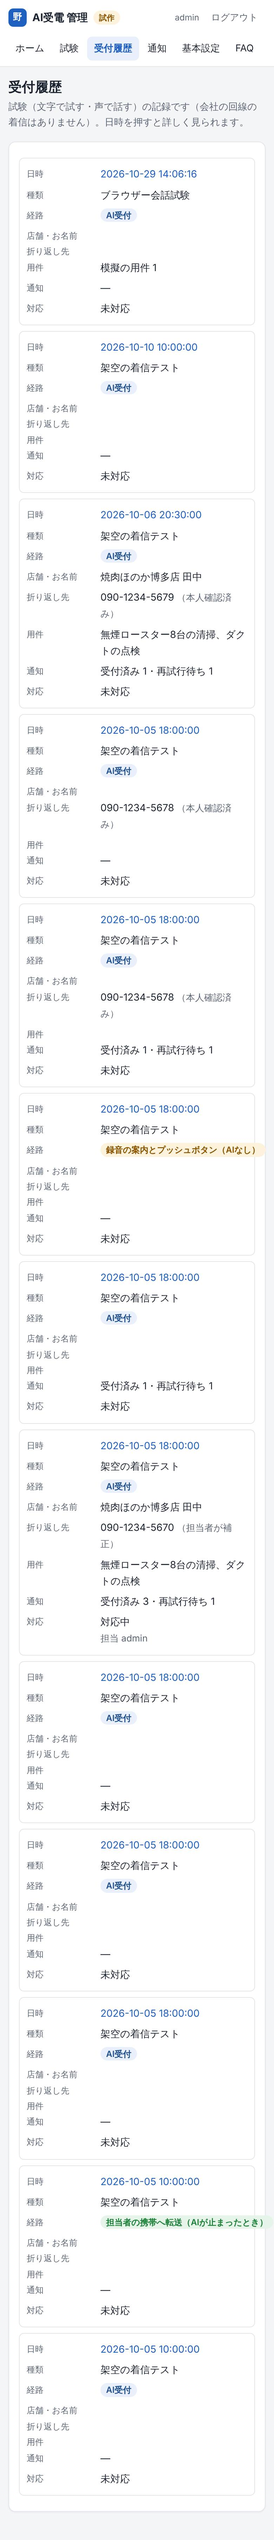
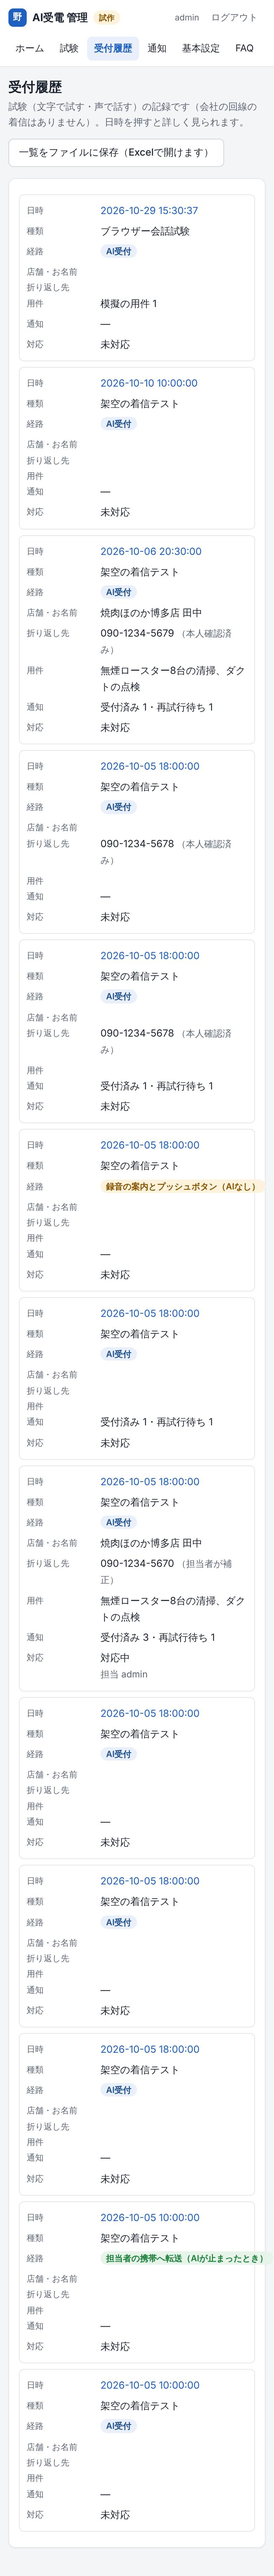
C2〜C7 の試験の反映と、受付一覧のファイル保存（2026-10-29）
- 確認済みの日時に、AIが別の時刻で確認を頼むと断っていた（同じ日時を3回復唱）→ 確認済みのまま受ける
- 確認の結果でも、次に伺う文を渡す（「次は、お名前です。」の作文をなくす）
- 「さようでございますか」「承っております」を使わない言葉に。承っ→うけたまわっ
- 締めの言葉：「担当の者に申し伝え、折り返しお電話いたします。」（担当の者を重ねない）
- 質問だけの通話は、まとめで用件を聞き直さずに最後のあいさつで終える
- 「点検」には「何基」を伺わない（清掃や対象の名前があるときだけ）
- 受付履歴に「一覧をファイルに保存（Excelで開けます）」（CSV、BOM付き）

Claude-Session: https://claude.ai/code/session_018pFjPLuP3S5SkWoNSMzDKX

diff --git a/prototype/admin/static/app.js b/prototype/admin/static/app.js
@@ -267,7 +267,9 @@ function callsTable(calls) {
 }
 routes.calls = async () => {
   const { calls } = await api("/api/calls");
-  view.innerHTML = `${head("受付履歴", "試験（文字で試す・声で話す）の記録です（会社の回線の着信はありません）。日時を押すと詳しく見られます。")}<section class="card">${callsTable(calls)}</section>`;
+  // 2026-10-29 (user): 「受付一覧に記録のエクスポート機能がほしい」
+  view.innerHTML = `${head("受付履歴", "試験（文字で試す・声で話す）の記録です（会社の回線の着信はありません）。日時を押すと詳しく見られます。",
+    `<a class="button" href="/export/calls.csv" download title="すべての受付を1行ずつ、店舗名・用件・会話などと一緒に保存します">一覧をファイルに保存（Excelで開けます）</a>`)}<section class="card">${callsTable(calls)}</section>`;
 };
 
 function eventText(e) {

diff --git a/prototype/tests/test_feedback_1029.py b/prototype/tests/test_feedback_1029.py
@@ -1,0 +1,105 @@
+"""The Grok tests of 2026-10-29 (C2-C7, records 20261029-150054 … 150925) and the user's notes on them.
+
+「「さようでございますか。」は変」「何度も聞き返された」「担当のものを重複して言っている。「担当のものにもうしつたえ、
+折り返しお電話いたします。」でいいと思う」「C3の会話が変だった」「承って（しょうって）と言ってる」
+「受付一覧に記録のエクスポート機能がほしい」
+"""
+import csv
+import io
+import unittest
+
+from prototype.concierge.prompts import ASK_FOR, CLOSING_WORDS, SPEECH_MANNERS, VOICE_RULES, for_speech
+from prototype.reception.service import ReceptionService
+from prototype.reception.store import Store
+
+
+def call():
+    svc = ReceptionService(Store(":memory:"))
+    return svc, svc.start_call(at="2026-10-29T15:00")["id"]
+
+
+class AskedOnceTest(unittest.TestCase):
+    def test_a_part_of_the_day_confirmed_by_the_reply_is_not_asked_again(self):
+        # 150054: 「午後」 saved as 「2026-11-03 午後」, confirmed by 「はい」; the AI's confirm_field with T14:00 was
+        # refused and it read the date back three times
+        svc, cid = call()
+        svc.tool(cid, "save_fields", {"shop_name": "焼肉ほのか博多店", "caller_name": "田中", "request": "無煙ロースター20基の清掃"})
+        svc.caller_utterance(cid, "来週の火曜日、午後からどうですか？")
+        say = svc.tool(cid, "save_field", {"field": "preferred_datetime", "value": "2026-11-03T14:00"})["read_back_now"]["say"]
+        self.assertEqual(say, "11月3日、火曜日の、午後でございますね。")
+        svc.ai_utterance(cid, say)
+        svc.caller_utterance(cid, "はい。")
+        res = svc.tool(cid, "confirm_field", {"field": "preferred_datetime", "value": "2026-11-03T14:00"})
+        self.assertTrue(res["ok"])
+        self.assertEqual(res["confirmed_value"], "11月3日、火曜日の、午後")
+        self.assertEqual(res["say"], for_speech(ASK_FOR["callback_number"]))   # and on to the next question
+        self.assertEqual(svc.fields(cid)["preferred_datetime"]["status"], "confirmed_by_caller")
+
+    def test_the_next_question_follows_a_confirmation_only_when_nothing_waits(self):
+        svc, cid = call()
+        svc.tool(cid, "save_fields", {"request": "無煙ロースター3基の清掃", "preferred_datetime": "2026-11-03T15:00",
+                                      "callback_number": "08056442050"})
+        svc.caller_utterance(cid, "はい")
+        res = svc.tool(cid, "confirm_field", {"field": "preferred_datetime", "value": "2026-11-03T15:00"})
+        self.assertNotIn("say", res)   # the number is still to be read back first
+
+
+class WordsTest(unittest.TestCase):
+    def test_no_sayou_and_no_uketamawatte(self):
+        self.assertNotIn("「さようでございますか」から", SPEECH_MANNERS)
+        self.assertNotIn("「さようでございますか」から", VOICE_RULES)
+        self.assertIn("「さようでございますか」", VOICE_RULES)   # in the words not to use
+        self.assertEqual(for_speech("承っております"), "うけたまわっております")
+
+    def test_the_closing_names_the_staff_once(self):
+        self.assertEqual(CLOSING_WORDS.count("担当の者"), 1)
+        self.assertIn("担当の者に申し伝え、折り返しお電話いたします。", CLOSING_WORDS)
+
+
+class C3Test(unittest.TestCase):
+    def test_a_call_with_only_a_question_ends_with_the_goodbye(self):
+        # 150734: 「点検は無料ですか」 answered, 「以上です」, then 「どのようなご用件でしょうか」 again
+        svc, cid = call()
+        svc.caller_utterance(cid, "点検は無料ですか？")
+        svc.tool(cid, "lookup_faq", {"question": "点検は無料ですか？"})
+        res = svc.tool(cid, "request_summary", {})
+        self.assertTrue(res["nothing_to_take"])
+        self.assertNotIn("say", res)
+        self.assertIn("end_call", res["then"])
+
+    def test_an_inspection_at_a_yakiniku_shop_is_not_asked_how_many(self):
+        # 150925: 「点検」 at 「焼肉ほのか」 got 「清掃の対象は、何基ございますか」
+        svc, cid = call()
+        res = svc.tool(cid, "save_fields", {"shop_name": "焼肉ほのか博多店", "request": "点検"})
+        self.assertEqual(res["say"], for_speech(ASK_FOR["preferred_datetime"]))
+        res = svc.tool(cid, "save_field", {"field": "request", "value": "無煙ロースターの清掃"})
+        self.assertEqual(res["say"], for_speech(ASK_FOR["request_count"]))   # a cleaning still is
+
+
+class ExportTest(unittest.TestCase):
+    def test_one_row_per_call_for_excel(self):
+        svc, cid = call()
+        svc.caller_utterance(cid, "=HYPERLINK(\"x\") 焼肉ほのか博多店の田中です")
+        svc.tool(cid, "save_fields", {"shop_name": "焼肉ほのか博多店", "caller_name": "田中", "request": "無煙ロースター3基の清掃"})
+        svc.end_call(cid)
+        text = svc.export_calls_csv()
+        self.assertTrue(text.startswith("受付ID,着信日時"))   # Excel reads UTF-8 with the BOM
+        self.assertIn("\r\n", text)
+        rows = list(csv.reader(io.StringIO(text[1:])))
+        head, row = rows[0], rows[1]
+        got = dict(zip(head, row))
+        self.assertEqual((got["受付ID"], got["店舗名"], got["お名前の確認"], got["用件"]),
+                         (cid, "焼肉ほのか博多店", "聞き取りのみ・未確認", "無煙ロースター3基の清掃"))
+        self.assertEqual(got["折り返し先の確認"], "未取得")
+        self.assertTrue(got["会話"].startswith("お客様：=HYPERLINK"))   # the formula is inside the cell, not at its start
+        self.assertEqual(got["着信日時"], "2026-10-29 15:00:00")
+
+    def test_a_cell_that_looks_like_a_formula_is_text(self):
+        svc, cid = call()
+        svc.tool(cid, "save_field", {"field": "shop_name", "value": "=1+1"})
+        got = dict(zip(*list(csv.reader(io.StringIO(svc.export_calls_csv()[1:])))[:2]))
+        self.assertEqual(got["店舗名"], "'=1+1")
+
+
+if __name__ == "__main__":
+    unittest.main()

diff --git a/prototype/engines/tools.py b/prototype/engines/tools.py
@@ -182,9 +182,15 @@ class ToolHandler:
                 result = {"ok": True, **{k: v for k, v in self.start_readback(field, t_ms).items() if k != "field"}}
         elif name == "confirm_field":
             state = self.store.get(field)
-            if (state.status == Status.CONFIRMED and state.value is not None
-                    and self._normalize(field, args.get("value", "")) == state.value):
+            if state.status == Status.CONFIRMED and state.value is not None:
+                # 2026-10-29 (Grok): the caller said 「午後」, the date was saved as 「2026-11-03 午後」 and confirmed by the
+                # 「はい」, but the AI sent confirm_field with its own 「2026-11-03T14:00」. That was refused as 「this reply was
+                # already used」, and the AI read the date back three times. What was read back and confirmed stands.
                 result = {"ok": True, "reason": "already confirmed by the server from the read-back and the reply"}
+                if self._normalize(field, args.get("value", "")) != state.value:
+                    result["confirmed_value"] = self._reading(field, state.value)
+                    result["note"] = ("この値で確認済みです。お客様が別の値をおっしゃったときだけ、save_field で保存し直します。"
+                                      "伺い直さないでください")
             elif self._utt_seq in self._consumed:
                 result = {"ok": False, "reason": "this reply was already used to confirm another item; ask again"}
             else:

diff --git a/prototype/admin/server.py b/prototype/admin/server.py
@@ -361,6 +361,13 @@ def make_handler(app: AdminApp, allowed_hosts: set[str], log_requests: bool = Tr
             if path == "/favicon.ico":
                 return self._send(204, b"", "image/x-icon")
             user = app.auth.session(self._token())
+            if path == "/export/calls.csv":   # 2026-10-29: the call list for Excel
+                if not user:
+                    return self._redirect("/login")
+                # an ASCII name: Chromium dropped a Japanese one (filename*) and saved the file as 「download」
+                name = "calls-" + app.service.clock().strftime("%Y%m%d-%H%M") + ".csv"
+                return self._send(200, app.service.export_calls_csv().encode("utf-8"), "text/csv; charset=utf-8",
+                                  {"Content-Disposition": f'attachment; filename="{name}"'})
             if path.startswith("/api/"):
                 if not user:
                     return self._json(HTTPStatus.UNAUTHORIZED, {"error": "ログインが必要です"})

diff --git a/prototype/tests/test_short_prompts.py b/prototype/tests/test_short_prompts.py
@@ -57,7 +57,7 @@ class PromptTextTest(unittest.TestCase):
 
     def test_gemini_gets_short_tool_rules_and_the_dates_but_not_the_faq(self):
         text = self.svc.voice_instructions(self.cid, LAB_PERSONA, backend=False)
-        self.assertLess(len(text), 2850)   # 2026-10-22: the fixed questions and more words in kana; 10-26: go on after the name
+        self.assertLess(len(text), 2900)   # 2026-10-22: the fixed questions and more words in kana; 10-26: go on after the name; 10-29: words not to use
         for words in ("0は「ゼロ」と言います", "失礼いたします。」と言い、end_call を呼びます", "必ず lookup_faq を呼び",
                       "read_back_now.say を一字一句そのまま読みます", "まず offer_line_number を呼び",
                       "- 10/16（金）：明後日・今週の金曜", "save_field には、2026-10-16"):

diff --git a/prototype/reception/tooldefs.py b/prototype/reception/tooldefs.py
@@ -20,7 +20,8 @@ RECEPTION_TOOLS = TOOLS + [
         "type": "function",
         "name": "lookup_faq",
         "description": ("料金・条件・対応範囲などを聞かれたときに呼ぶ。返ってきた answer の範囲だけで答える。found が false なら、"
-                        "how のとおり、candidates から同じことを聞いているものの answer を読むか、if_none を読む。"),
+                        "how のとおり、candidates から同じことを聞いているものの answer を読むか、if_none を読む。"
+                        "呼ぶ前に「お調べいたします」などとは言わない（すぐ結果が返る）。"),
         "parameters": {"type": "object", "properties": {"question": {"type": "string"}}, "required": ["question"]},
     },
     {

diff --git a/prototype/tests/test_manners.py b/prototype/tests/test_manners.py
@@ -12,7 +12,7 @@ from prototype.reception.service import ReceptionService
 from prototype.reception.store import Store
 
 # words the instructions tell the AI not to use; the phrases this app writes itself must not use them either
-FORBIDDEN = ("マル", "〇", "もしもし", "少々確認", "確認しましょう", "了解", "なるほど", "よろしかった", "になります",
+FORBIDDEN = ("マル", "〇", "もしもし", "さようでございますか", "承って", "少々確認", "確認しましょう", "了解", "なるほど", "よろしかった", "になります",
              "頂戴", "お声が遠い", "AI受付です", "伺えますか")
 
 

diff --git a/prototype/tests/test_admin_http.py b/prototype/tests/test_admin_http.py
@@ -64,7 +64,8 @@ class AdminHttpTest(unittest.TestCase):
         return status, cookie, json.loads(data)["csrf"]
 
     def test_nothing_without_login(self):
-        for path in ("/api/config", "/api/calls", "/api/faqs", "/api/targets", "/api/audit", "/lab/api/candidates"):
+        for path in ("/api/config", "/api/calls", "/api/faqs", "/api/targets", "/api/audit", "/lab/api/candidates",
+                     "/export/calls.csv"):
             self.assertIn(self.req("GET", path)[0], (401, 302), path)
         status, _, r = self.req("GET", "/")
         self.assertEqual((status, r.getheader("Location")), (302, "/login"))

diff --git a/docs/spec-draft-v1.md b/docs/spec-draft-v1.md
@@ -9,6 +9,7 @@
 
 | 版 | 変更点 |
 | --- | --- |
+| v1（C2〜C7 の試験の反映と、受付一覧の保存、2026-10-29） | Grok Voice 3.0 で C2〜C7 を試験（記録 `20261029-150054`・`150407`・`150734`・`150925`）。利用者の感想：「「さようでございますか。」は変」「何度も聞き返された」「担当のものを重複して言っている。「担当のものにもうしつたえ、折り返しお電話いたします。」でいいと思う」「C3の会話が変だった」「承って（しょうって）と言ってる」。原因と直したこと：①お客様が「午後」とだけ言った日時は「11月3日、火曜日の、午後」で保存・復唱し、「はい」で確認済みになったが、AIが自分で作った「午後2時」で確認を頼み、サーバーが「この返事は別の項目の確認に使った」と誤って断っていた。AIは同じ日時を3回復唱した。確認済みの項目への確認は、値が違っても確認済みのまま受ける（`prototype/engines/tools.py`）。②確認の後、AIが「次は、お名前です。」と作文した → 確認の結果でも、次に伺う文をサーバーが渡す。③「さようでございますか」を相づちの例から外し、使わない言葉にした。AIが作文した「承っております」は使わない言葉に入れ、読み方をかなにした。④締めの言葉を「承りました内容は担当の者に申し伝え、折り返しお電話いたします。ほかにご用件はございますでしょうか。」にした（**利用者の決定**）。⑤C3：質問だけのお客様が「以上です」と言うと、まとめの業務処理が「どのようなご用件でしょうか」を返していた→ 何も伺っていない通話は、最後のあいさつで終える。FAQを調べる前の「料金についてお調べいたします」は言わないようにした。⑥「点検」でも焼肉店なら「何基」と伺っていた → 何基かは、清掃や対象の名前がご用件にあるときだけ伺う。**利用者の依頼「受付一覧に記録のエクスポート機能がほしい」**：受付履歴の「一覧をファイルに保存（Excelで開けます）」で、すべての受付を1行ずつ（店舗名・お名前・折り返し先・用件・希望日時とそれぞれの確認の状態、確認事項、対応、要約、会話）CSVで保存する（Excel で文字化けしない形。数式に見える値は文字として書く） |
 | v1（答えられなかった質問をFAQに足す流れ、2026-10-29） | Grok の試験（記録 `20261029-134104-08f64f`）で、「福岡市は対応してますか?」に「担当の者が確認のうえ…」と答えた。FAQ-06（どの地域に来てもらえますか）に答えがあるのに、探す語（地域・エリアなど）が質問に入っていなかったため。**利用者の決定（2026-10-29）**：「答えられなかった質問はフィードバックで回答に追加できる流れが必要かもね」「あと類似の質問も答えられる必要性もあります」「FAQで回答できなかった内容をいれて、管理者が回答を記入したら使えるようにするとか？」。作ったこと：①FAQの探し方を3段にした（探す語 → FAQの質問や「似た質問」とほぼ同じ書き方 → どちらも合わなければ、有効なFAQの質問と回答をAIに渡し、同じ意味のものがあればその回答だけを読ませる。なければFAQ-10）。AIが意味で選んだときは、担当者への確認事項から外す。②FAQの画面の上に「答えられなかった質問」の一覧を出す。管理者は、回答を書いて新しいFAQにするか、同じ意味のFAQに「似た質問」として足すか、「FAQにしない」を選ぶ。AIが意味で選んだものは「合っている」で似た質問になる。どれも次の会話から使う。ホームにも件数を出す（`prototype/reception/faq.py`・`service.py`・管理画面）。管理者が書いた回答は、承認の欄が「未承認（試作で追加）」になる。あわせて直したこと：店舗名だけを伺った後、AIが店舗名からお名前を推測した（「お名前は、田中様でよろしいでしょうか」）→ 保存の結果で、次に伺う文をサーバーが渡す。お名前だけを保存したときも、あいさつと次の質問を渡す。「来週ぐらい」のような日にちのないご希望が保存されず、まとめから落ちた → そのまま保存するよう指示に足した |
 | v1 | 設計レビュー v2.1、v2への返答、評価台本 v1.1、試作報告 v1、費用比較表 v1、実測計画 v1、実音声での予備確認 v1 を統合した |
 | v1（改訂依頼 2026-10-05の反映） | 採用の規則を「必要な会話条件を満たした候補から、コストと性能のバランスで選ぶ」に変更（1-3）。会話性能の重要度を明記。部分減速を初期導入の必須条件から外した（利用者の決定。電話番号・日時の明瞭な復唱と確認は維持）。候補を広げ、初回の会話試験の構成を提案（3-2）。Relayの文字起こしは料金に含まれる（3-3）。共通会話C1〜C6と復唱の明瞭さ（4-3）。開発の順序と完了の条件（5章） |
@@ -255,7 +256,7 @@
 | 折り返し先の取得 | ①回線の番号へ折り返してよいか確かめる、②口頭で聞いて区切って復唱する、③2回失敗したらプッシュボタンを案内する、④それでも不確かなら「未確認」で保存する | ①②は試作で実装（2026-10-14）：AIへの指示には、回線の番号が届いているかだけを書き、番号そのものは書かない。AIは業務処理 offer_line_number を呼び、返ってきた言葉（「折り返しのお電話は、いまおかけいただいているお電話番号、ゼロキュウニーの、…で、よろしいでしょうか」）をそのまま読む。お客様の明確な「はい」で確認済みになる（1-6のガードのまま）。別の番号を言われたら、その番号を保存して復唱する。③④は電話の経路で作る | 設計レビュー v1 文案4、`prototype/reception/service.py` の `_offer_line_number` |
 | 確認のガード | 復唱と明確な肯定がそろったときだけ確定する。AIが復唱で違う値を言ったら確定しない（1-6） | 【要件】（試作で実装済み） | `prototype/concierge/confirmation.py`、試作報告 2-3 |
 | 拒否の経路 | AIの切り離し、録音済みの案内、プッシュボタン、数字ごとの録音済み音声での復唱、無入力時の扱い | 【要件】（試作で実装済み） | 設計レビュー v2.1 4-3、`prototype/concierge/call_flow.py` |
-| 終話 | ①聞き取った内容を短くまとめて確かめる、②「承りました内容は担当の者に申し伝え、担当の者から折り返しお電話いたします」、③「ほかにご用件はございますでしょうか」、④「お電話ありがとうございました。株式会社野田、AI受付が承りました。失礼いたします」と言って、業務処理 end_call を呼ぶ。お客様が先に切るのを待ち（終話の待ち時間、3-6）、その後でこちらから切る。待つ間に、お客様が短いあいさつ（「はい、失礼します」など）以外を話したら、切るのをやめて会話を続ける | 試作で実装（2026-10-13。ブラウザー会話試験では、AIもお客様も3秒話さなければ「ツー・ツー・ツー」と鳴らして会話を終える。電話の経路は未接続） | `prototype/browser_lab/static/lab.js` |
+| 終話 | ①聞き取った内容を短くまとめて確かめる、②「承りました内容は担当の者に申し伝え、折り返しお電話いたします」（2026-10-29、利用者「担当のものを重複して言っている」）、③「ほかにご用件はございますでしょうか」、④「お電話ありがとうございました。株式会社野田、AI受付が承りました。失礼いたします」と言って、業務処理 end_call を呼ぶ。お客様が先に切るのを待ち（終話の待ち時間、3-6）、その後でこちらから切る。待つ間に、お客様が短いあいさつ（「はい、失礼します」など）以外を話したら、切るのをやめて会話を続ける | 試作で実装（2026-10-13。ブラウザー会話試験では、AIもお客様も3秒話さなければ「ツー・ツー・ツー」と鳴らして会話を終える。電話の経路は未接続） | `prototype/browser_lab/static/lab.js` |
 | 障害時 | 承認済みの案内、取得済みの情報の保全、受付状況の通知。通話の途中でAIが止まったら、ライブ転送はせずプッシュボタンの経路へ | 【要件】 | 設計レビュー v2.1 4-4、文案R5 |
 | 緊急判定 | 明白・曖昧・通常の3分類。曖昧なときは、通常の煙と異常な煙を並べて選んでもらう確認を一度だけ | 【要件】（確認の文言は4-2） | 設計レビュー v2.1 4-5、文案R6 |
 | 無言・切断・非通知・営業電話 | 無言は一度だけ声をかけて終話。途中で切れても取得済みの情報を保存して通知。非通知なら折り返し先を必ず確かめる。営業電話は「営業・その他」に分類 | 【推奨】 | 設計レビュー v1 文案8 |
@@ -439,7 +440,7 @@
 | A-04 | 担当者が出られないための案内（A-01の後。AIが自分の声で話す） | 「ただいま担当の者が電話に出られないため、AIがご用件を承ります。担当の者から折り返しご連絡いたします。」 | AIの通話ではいつも流す（オン・オフはNTTの転送で行い、時間帯の判定はない。2026-10-08に変更）。折り返しの時期は約束しない | |
 | A-05 | 無言のとき（一度だけ） | 「恐れ入ります。お電話が遠いようでございます。もう一度お話しいただけますでしょうか。」 | 設計レビュー v1 文案8 | |
 | A-06 | 無言が続いたときの終話 | 「お電話が遠いようでございますので、いったん失礼いたします。恐れ入りますが、改めておかけ直しくださいませ。」 | 同上 | |
-| A-07 | 終話 | 「承りました内容は担当の者に申し伝え、担当の者から折り返しお電話いたします。お電話ありがとうございました。失礼いたします。」 | 訪問や時期を約束しない。AIの会話では、この前に要点の確認と「ほかにご用件はございますでしょうか」を入れる（2章「終話」） | |
+| A-07 | 終話 | 「承りました内容は担当の者に申し伝え、折り返しお電話いたします。お電話ありがとうございました。失礼いたします。」 | 訪問や時期を約束しない。AIの会話では、この前に要点の確認と「ほかにご用件はございますでしょうか」を入れる（2章「終話」） | |
 
 **緊急の案内（承認が本番開始の条件）**
 

diff --git a/docs/admin-app-v1.md b/docs/admin-app-v1.md
@@ -59,7 +59,7 @@
 | 基本設定 | AIが止まったとき（着信の時点でAIが使えないとき）の扱い：担当者の携帯へ転送／録音の案内とプッシュボタン。保存期間（未設定なら警告）。保存の履歴（版） |
 | FAQ | 追加・編集・有効／無効。すべて「未承認」と表示。FAQ-04も普通のFAQとして編集できる。探す語のうち「いくら\|料金」のように「\|」でつないだ語は、どれかが質問に入っていないとそのFAQを選ばない（2026-10-13）。各FAQに「似た質問」（お客様の言い方の例、1行に1つ）を足せる。上に「答えられなかった質問」の一覧：回答を書いて新しいFAQにする／同じ意味のFAQに似た質問として足す／FAQにしない。AIが意味の近いFAQで答えたものは「合っている」で似た質問になる。件数はホームにも出る（2026-10-29） |
 | 音声 | 複数の声の登録と、使う声の選択。候補ごとの状態（利用可能〔オフラインの模擬だけ〕／接続未確認／鍵が未設定）と、保留の表示。この画面の声が業者へ届くか（接続のときに指定／業者のエージェント設定で固定）。保留中の候補は出さない。固定の候補の声は「使う声」にできない（記録としての登録だけ。サーバーでも検査）。鍵の値は表示しない。初期値は GPT-Live（marin）と Gemini（Kore） |
-| 受付履歴 | 日時・種類（架空の着信テスト／ブラウザー会話試験）・経路・店舗とお名前・折り返し先と確認状態・用件・通知の状態・対応状態と担当 |
+| 受付履歴 | 日時・種類（架空の着信テスト／ブラウザー会話試験）・経路・店舗とお名前・折り返し先と確認状態・用件・通知の状態・対応状態と担当。「一覧をファイルに保存（Excelで開けます）」で、すべての受付を1行ずつCSVに保存（項目と確認の状態・確認事項・対応・要約・会話。2026-10-29） |
 | 受付の詳細・修正 | この通話の設定（版・声・有効だったFAQ）、同意の状態、項目ごとの値と確認状態、**補正（理由が必須。前と後を記録）**、対応状態と担当（「対応中」にした人が担当。ほかの画面が先に変えていたら保存せずに読み直す。担当の引き継ぎ）、要約の版、宛先ごとの通知と試行の記録、送信シミュレーション、通知イベントの再投入、再送・破棄、出来事の記録 |
 | 通知 | 複数の宛先の登録・有効化、経路（シミュレーション／LINE公式アカウント〔未接続〕）、シミュレーションの結果の選択、受付ごとのプレビュー、最近の通知、停止中の経路の再開 |
 | 試験（「文字で試す」のタブ。旧「着信テスト」） | 着信先（0120／092／不明）・回線の番号（非通知も可）・通話の日時（「明後日」などの確認用）・AIが止まっている状態を指定して着信を入れる → 会話（入力または例の台本）→ 項目の状態がその場で変わる → 終話 → 要約・宛先ごとの結果・プレビュー。プッシュボタンの経路も操作できる。「業者の割り込みの通知（模擬）」で、返事の前に遮られた復唱が確認済みにならないことを確かめられる。同意の変更（発話から判定したもの）と、録音の停止・削除も表示する。回線の番号を入れると、AIは折り返し先を伺うとき、まずその番号に折り返してよいかを伺い、要約と通知には「回線の番号」が載る（2026-10-14） |
